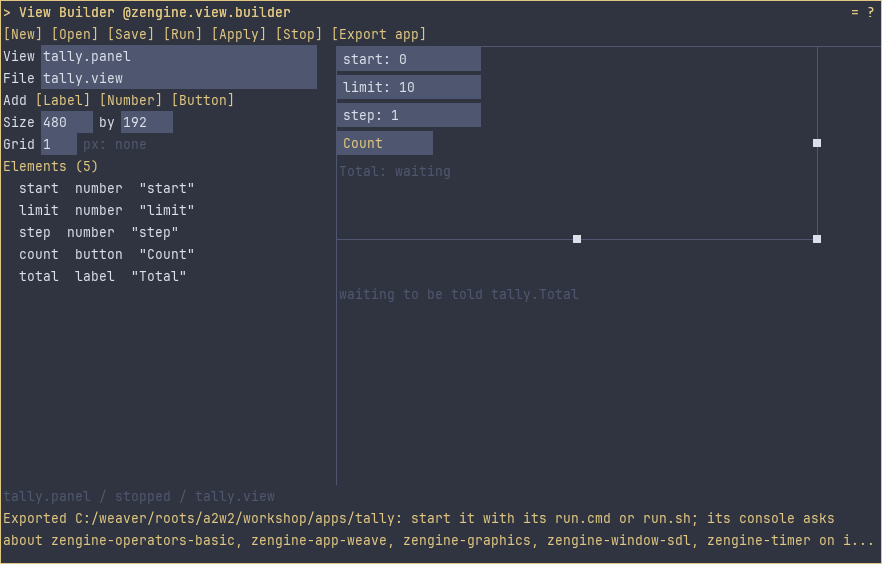
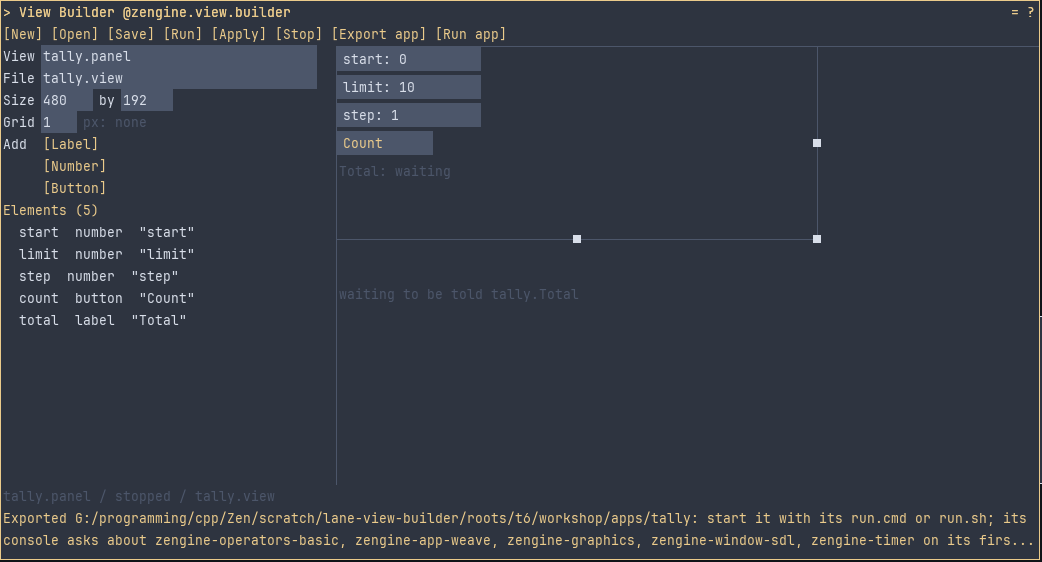
Pictures: the View Builder's pages taken again with one layout at every width
Every picture that showed the left column as it was -- Add's kinds on one row above Size and Grid,
the values in a column of their own on the right -- is taken again from the tested state, each alt
saying what it shows: the guide's fifteen, the manual's on the folder's front page, and the three
of the external host's guide that show the builder. The guide's sentence on where the builder and
a run view open says the room's centre, as the pictures show the desk placing them.

diff --git a/view/docs/view-builder.md b/view/docs/view-builder.md
@@ -10,11 +10,11 @@ in [its manual](zengine.view.builder.md); the contract beneath this page is the
 [view reference](view.md).
 
 Open the Pane Manager and press `n`, or choose **View Builder**. The shipped plans include the
-optional `zengine-view-builder` artifact in the `zengine.view.builder` office. The builder takes
-its place in the column down the room's left like any pane you show, and a view you run opens in
-front, with the keys: where the column has no room left for it, at the column's top.
+optional `zengine-view-builder` artifact in the `zengine.view.builder` office. The builder opens
+at the room's centre, in front, to be placed: drag its title to move it or its edges to size it,
+or press in it to leave it where it is. A view you run opens the same way, in front, with the keys.
 
-![n in the Pane Manager showed the View Builder beneath it; the view greeting, run from it, opened at the column's top in front of both, with the keys](images/view-builder-run-in-front.png)
+![n in the Pane Manager showed the View Builder; the view greeting, run from it, opened at the room's centre in front of it, with the keys, being placed while the others are faded](images/view-builder-run-in-front.png)
 
 ## The builder
 
@@ -65,15 +65,15 @@ when it runs. Widening the pane widens the canvas alone.
 - `Delete` or **Remove** removes the selected element. **New** or **Open** over an unsaved view
   asks for a second press before it discards it.
 
-![A new view, 480 by 240, its right and bottom edges ruled with their handles; button1 selected, with a handle on each side and at each corner, while the pointer resting on field2 marks it and its row](images/view-builder-hand.png)
+![A new view, 480 by 240, its right and bottom edges ruled with their handles; button1 selected, with a handle on each side and at each corner and its values below the list, while the pointer resting on field2 marks it; Add's kinds a row each beneath Grid, and the canvas to the pane's right edge](images/view-builder-hand.png)
 
-![A view 1500 by 900, panned by the middle button to its far corner; label1, placed at 1100,700 and dragged onto button2, made there while panned, snaps to button2's left edge and top, both lines marked while the button is held](images/view-builder-pan-snap.png)
+![A view 1500 by 900, panned by the middle button to its far corner; label1, dragged onto button1 there, snaps to button1's left edge and top, both lines marked while the button is held](images/view-builder-pan-snap.png)
 
-![label1's right side dragged alone to button2's right edge: its width 96, its left side and its row where they were](images/view-builder-side.png)
+![label1's right side dragged alone to button1's right edge: its width 96, its left side and its row where they were](images/view-builder-side.png)
 
 ![label1 dragged far right stops at the view's right edge, at 1404 in a view 1500 wide, the edge it met marked](images/view-builder-size.png)
 
-![The tally panel shrunk by its handles to its elements, 249 by 203, Total bound and not yet told: Total: waiting stays above the size's edge, and the notice, waiting to be told tally.Total, sits in its rows beneath](images/view-builder-notice.png)
+![The tally panel set in its Size boxes to 200 by 140 around its elements, Total bound and not yet told: Total: waiting stays above the size's edge, and the notice, waiting to be told tally.Total, sits in its rows beneath](images/view-builder-notice.png)
 
 ## Make the tally panel
 
@@ -94,7 +94,7 @@ named `tally` works out.
 5. Press **Run**. The panel opens in its own pane; `Total` says `waiting`, and so does its last
    row, until something tells it `tally.Total`.
 
-![The tally panel made by hand: its elements on the design canvas, count selected with its handles and its values, beside Flow running tally and the panel in its own pane](images/view-builder-tally.png)
+![The tally panel: its elements on the design canvas, count selected with its handles and its values below the list, beside Flow running tally and the panel running in its own pane](images/view-builder-tally.png)
 
 ## Drag shapes between the builder and Flow
 
@@ -116,11 +116,11 @@ then click where it goes.
   builder says where to drop it. A value from Inventory binds by its shape, and a field carried
   from Info binds that field.
 
-![The intent's says dragged onto Flow: Dropped the shape tally.panel.Count v1, its three Int fields, and the offer to declare it](images/view-builder-intent-onto-flow.png)
+![The intent's says carried onto Flow by its menu: Dropped the shape tally.panel.Count v1, its three Int fields, and the offer to declare it as an accepted message](images/view-builder-intent-onto-flow.png)
 
-![Flow's emitted tally.Total dragged onto the Total label on the design canvas: shows tally.Total.total](images/view-builder-carry.png)
+![Flow's emitted tally.Total carried onto the Total label on the design canvas: shows tally.Total.total](images/view-builder-carry.png)
 
-![The panel's own intent, its number fields given long ids, dragged onto Total: a button for each field, each on a row of its own within the values column](images/view-builder-choice.png)
+![The panel's own intent, its number fields given long ids, carried onto Total: a button for each field, each on a row of its own within the left column](images/view-builder-choice.png)
 
 ![The last of them chosen: the binding's words cut to end in ..., and Unshow whole beside them inside the column](images/view-builder-unshow.png)
 
@@ -133,7 +133,7 @@ view cannot register -- an intent whose fields changed while something still lis
 old ones under the same name and version, say -- **Apply** says why, and the running panel goes
 on as it was.
 
-![step's id changed and the intent made again as tally.panel.Count v1, which tally still means with step: Apply refused in Loom's words, and the running panel still counting](images/view-builder-apply-refused.png)
+![The number fields given long ids and the intent made again as tally.panel.Count v1, which tally still means with start, limit and step: Apply refused in Loom's words, and the running panel still counting](images/view-builder-apply-refused.png)
 
 ## Use it
 

diff --git a/external-host/docs/external-host.md b/external-host/docs/external-host.md
@@ -989,7 +989,7 @@ inventory and the keymap -- and Workshop says so beside each such row, at launch
 
 ![A 1600 by 900 window after a walk by names: the View Builder, opened by its Pane Manager row's name, made button1 when kind:button was pressed, and selected it when element:button1 was pressed where the redraw had moved it; control:view.run ran the view my.view, in front, and its button1, pressed by its name there, says button1 says nothing yet](images/parts-pressed-by-name.png)
 
-![Two overlapping buttons pressed by name in a 1440 by 900 window, each where its pane gives it the press: above, button2 lies over button1's centre and the View Builder selects button1 when element:button1 is pressed, on the part of it button2 leaves; below, the running view my.view says button1 says nothing yet when its element:button1 is pressed](images/overlapping-parts-pressed-by-name.png)
+![Two overlapping buttons pressed by name in a 1600 by 900 window, each where its pane gives it the press: above, button2 lies over button1's centre and the View Builder selects button1 when element:button1 is pressed, on the part of it button2 leaves; below, the running view my.view says button1 says nothing yet when its button1 is pressed](images/overlapping-parts-pressed-by-name.png)
 
 Every place is in canvas pixels: a window's pixel is one, a terminal's cell is `kCellPx`
 (<!-- value kCellPx -->12<!-- /value -->), and the terminal window draws canvas row 0 on its

diff --git a/view/README.md b/view/README.md
@@ -20,7 +20,7 @@ pane to the other. Workshop runs the views; this folder has no headers for other
 - [Described views](docs/view.md): the reference beneath the guide: a view's description and its
   file format, the view host, and the renderer that draws a view.
 
-![The View Builder wearing its ? at its top right, and the Manual showing its manual](docs/images/zengine.view.builder-manual.png)
+![The Manual over the View Builder, showing its manual: the bar, and down the left a column that keeps its width, Add's kinds a row each beneath Grid](docs/images/zengine.view.builder-manual.png)
 
 ## What is in this folder
 
